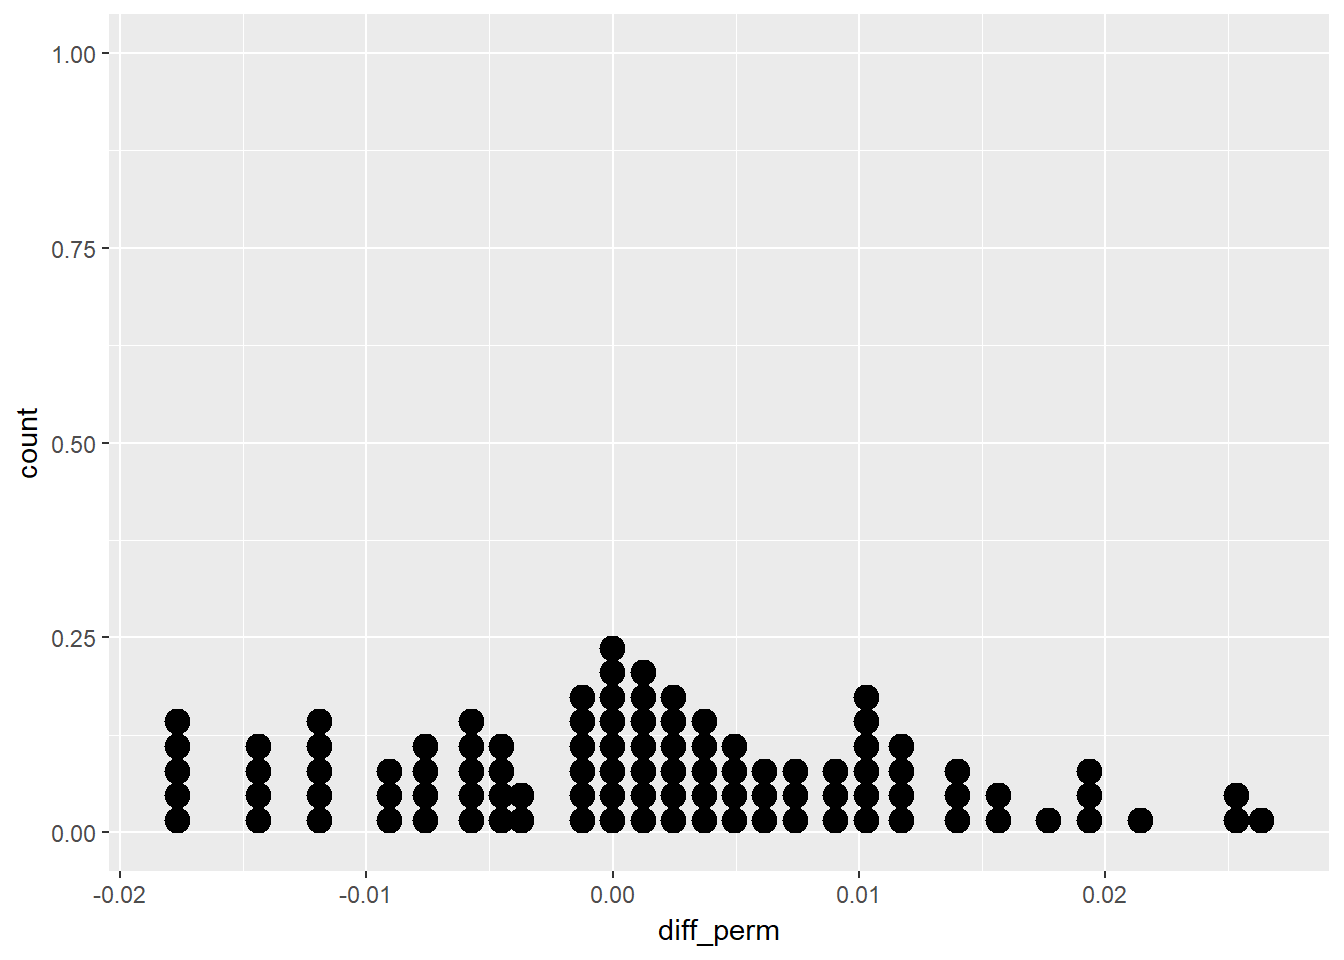
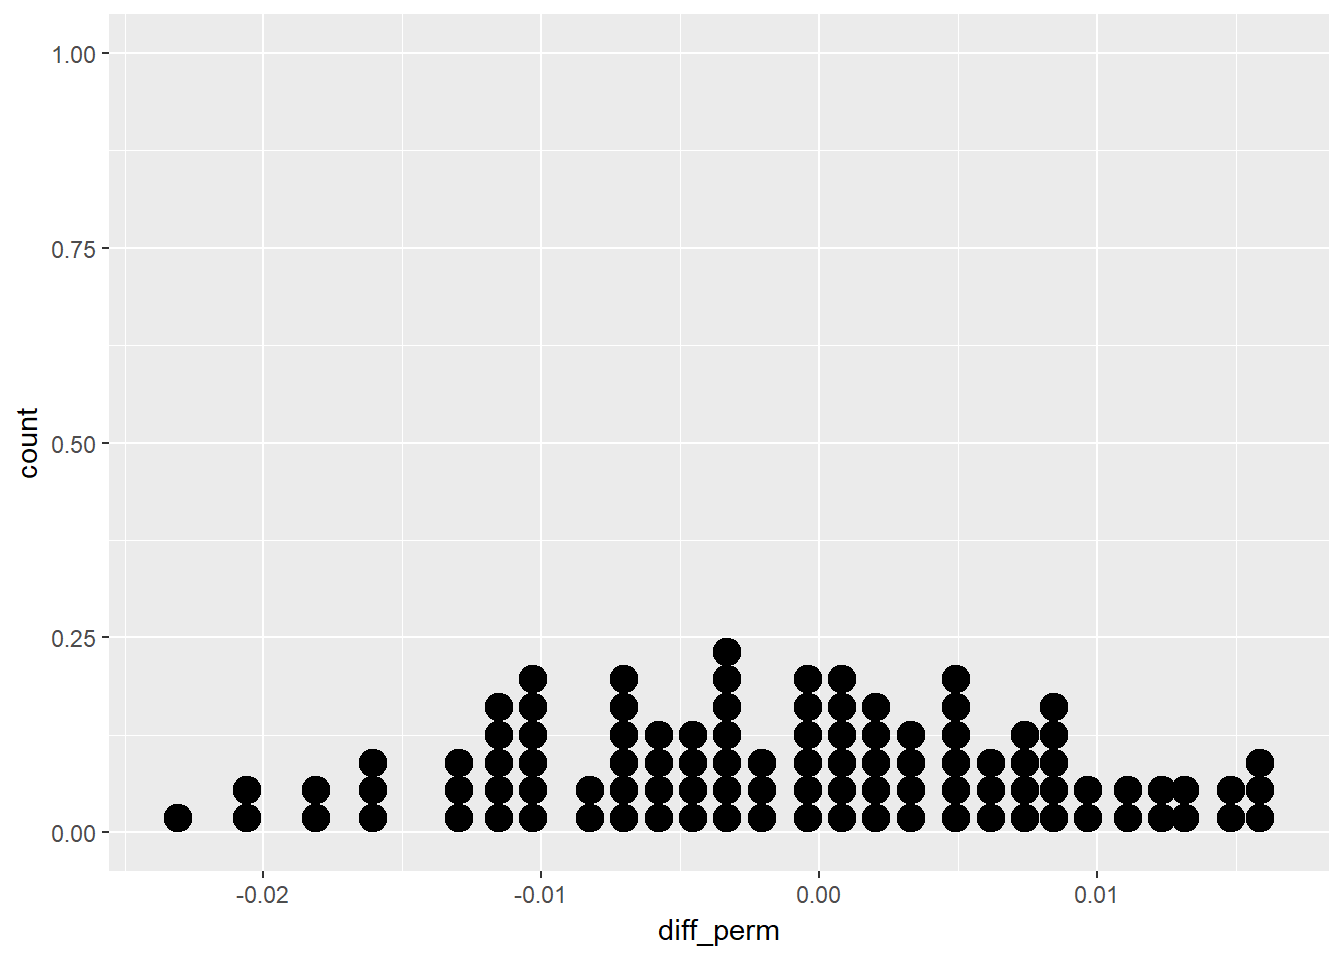
Started readr section

diff --git a/docs/importing-data-part-1.html b/docs/importing-data-part-1.html
@@ -108,6 +108,7 @@ code > span.in { color: #60a0b0; font-weight: bold; font-style: italic; } /* Inf
 <li class="chapter" data-level="1.1" data-path="importing-data-part-1.html"><a href="importing-data-part-1.html#introduction"><i class="fa fa-check"></i><b>1.1</b> Introduction</a></li>
 <li class="chapter" data-level="1.2" data-path="importing-data-part-1.html"><a href="importing-data-part-1.html#reading-csv-files"><i class="fa fa-check"></i><b>1.2</b> Reading CSV files</a></li>
 <li class="chapter" data-level="1.3" data-path="importing-data-part-1.html"><a href="importing-data-part-1.html#reading-tab-deliminated-files-or-other-table-formats"><i class="fa fa-check"></i><b>1.3</b> Reading tab deliminated files or other table formats</a></li>
+<li class="chapter" data-level="1.4" data-path="importing-data-part-1.html"><a href="importing-data-part-1.html#readr-and-data.table"><i class="fa fa-check"></i><b>1.4</b> Readr and data.table</a></li>
 </ul></li>
 <li class="chapter" data-level="2" data-path="foundations-of-inference.html"><a href="foundations-of-inference.html"><i class="fa fa-check"></i><b>2</b> Foundations of Inference</a><ul>
 <li class="chapter" data-level="2.1" data-path="foundations-of-inference.html"><a href="foundations-of-inference.html#introduction-to-inference"><i class="fa fa-check"></i><b>2.1</b> Introduction to Inference</a></li>
@@ -184,7 +185,22 @@ file &lt;-<span class="st"> </span><span class="kw">read.table</span>(path,
                       <span class="dt">sep =</span> <span class="st">&quot;</span><span class="ch">\t</span><span class="st">&quot;</span>,                                        <span class="co"># specify seperator - tab in this instance</span>
                       <span class="dt">col.names =</span> <span class="kw">c</span>(<span class="st">&quot;VarName1&quot;</span>, <span class="st">&quot;VarName2&quot;</span>, <span class="st">&quot;VarName3&quot;</span>), <span class="co"># specifiy variable names</span>
                       <span class="dt">colClasses =</span> <span class="kw">c</span>(<span class="st">&quot;factor&quot;</span>, <span class="st">&quot;NULL&quot;</span>, <span class="st">&quot;numeric&quot;</span>))       <span class="co"># specify the column/variable classes</span></code></pre></div>
-<p>Both read.csv and read.delim are wrapper functions of read.table, both use read.table but have different default options depending on the file type. There are two further wrapper functions - read.csv2 and read.delim2 - which deal with regional differences in formatting, notably that some areas use full stops as decimal places, whereas other areas use commas for decimal places.</p>
+<p>Both read.csv and read.delim are wrapper functions of read.table(), both use read.table but have different default options depending on the file type. There are two further wrapper functions - read.csv2 and read.delim2 - which deal with regional differences in formatting, notably that some areas use full stops as decimal places, whereas other areas use commas for decimal places.</p>
+</div>
+<div id="readr-and-data.table" class="section level2">
+<h2><span class="header-section-number">1.4</span> Readr and data.table</h2>
+<p>These two packages are other ways of reading in files. Readr uses the tibble, so will be compatable with other tidyverse packages such as dplyr. It is faster than utils, the r default and also prints out the column classes, depending on what other packages are loaded. It is not neccessary to specifiy stringsAsFactors = FALSE. Like the utils package, these are wrapper functions, with the base function being read_delim().</p>
+<div class="sourceCode"><pre class="sourceCode r"><code class="sourceCode r"><span class="kw">library</span>(readr)
+<span class="kw">read_csv</span>(<span class="st">&quot;file.csv&quot;</span>)    <span class="co">#read comma seperated</span>
+<span class="kw">read_tsv</span>(<span class="st">&quot;file2.txt&quot;</span>)   <span class="co">#read tab seperated files</span>
+
+<span class="co">#If there are no row heards, you can create a vector then read it in using the col_names argument</span>
+
+<span class="co">#specify the vector for column names</span>
+properties &lt;-<span class="st"> </span><span class="kw">c</span>(<span class="st">&quot;area&quot;</span>, <span class="st">&quot;temp&quot;</span>, <span class="st">&quot;size&quot;</span>, <span class="st">&quot;storage&quot;</span>, <span class="st">&quot;method&quot;</span>,
+                <span class="st">&quot;texture&quot;</span>, <span class="st">&quot;flavor&quot;</span>, <span class="st">&quot;moistness&quot;</span>)
+<span class="co">#read in the vector</span>
+potatoes &lt;-<span class="st"> </span><span class="kw">read_tsv</span>(<span class="st">&quot;potatoes.txt&quot;</span>, <span class="dt">col_names =</span> properties)</code></pre></div>
 
 </div>
 </div>

diff --git a/docs/foundations-of-inference.html b/docs/foundations-of-inference.html
@@ -108,6 +108,7 @@ code > span.in { color: #60a0b0; font-weight: bold; font-style: italic; } /* Inf
 <li class="chapter" data-level="1.1" data-path="importing-data-part-1.html"><a href="importing-data-part-1.html#introduction"><i class="fa fa-check"></i><b>1.1</b> Introduction</a></li>
 <li class="chapter" data-level="1.2" data-path="importing-data-part-1.html"><a href="importing-data-part-1.html#reading-csv-files"><i class="fa fa-check"></i><b>1.2</b> Reading CSV files</a></li>
 <li class="chapter" data-level="1.3" data-path="importing-data-part-1.html"><a href="importing-data-part-1.html#reading-tab-deliminated-files-or-other-table-formats"><i class="fa fa-check"></i><b>1.3</b> Reading tab deliminated files or other table formats</a></li>
+<li class="chapter" data-level="1.4" data-path="importing-data-part-1.html"><a href="importing-data-part-1.html#readr-and-data.table"><i class="fa fa-check"></i><b>1.4</b> Readr and data.table</a></li>
 </ul></li>
 <li class="chapter" data-level="2" data-path="foundations-of-inference.html"><a href="foundations-of-inference.html"><i class="fa fa-check"></i><b>2</b> Foundations of Inference</a><ul>
 <li class="chapter" data-level="2.1" data-path="foundations-of-inference.html"><a href="foundations-of-inference.html#introduction-to-inference"><i class="fa fa-check"></i><b>2.1</b> Introduction to Inference</a></li>
@@ -229,9 +230,9 @@ homes %&gt;%
 <span class="st">  </span><span class="kw">summarize</span>(<span class="dt">diff_perm =</span> <span class="kw">diff</span>(prop_own),
             <span class="dt">diff_orig =</span> <span class="kw">diff</span>(prop_own_perm))</code></pre></div>
 <pre><code>## # A tibble: 1 × 2
-##      diff_perm  diff_orig
-##          &lt;dbl&gt;      &lt;dbl&gt;
-## 1 -0.007828723 0.00205644</code></pre>
+##      diff_perm   diff_orig
+##          &lt;dbl&gt;       &lt;dbl&gt;
+## 1 -0.007828723 -0.01235942</code></pre>
 <p>It is easier to see what is going on by breaking the results down iteratively. Our selected and filtered homes dataset looks like.</p>
 <div class="sourceCode"><pre class="sourceCode r"><code class="sourceCode r"><span class="kw">head</span>(homes)</code></pre></div>
 <pre><code>## # A tibble: 6 × 2
@@ -255,10 +256,10 @@ homes %&gt;%
 ##   &lt;fctr&gt;  &lt;fctr&gt;       &lt;fctr&gt;
 ## 1   male    Rent          Own
 ## 2   male    Rent          Own
-## 3 female     Own          Own
+## 3 female     Own         Rent
 ## 4   male     Own          Own
 ## 5   male     Own          Own
-## 6   male     Own          Own</code></pre>
+## 6   male     Own         Rent</code></pre>
 <div class="sourceCode"><pre class="sourceCode r"><code class="sourceCode r"><span class="kw">summary</span>(homes2)</code></pre></div>
 <pre><code>##     Gender      HomeOwn     HomeOwn_perm
 ##  female:4890   Own  :6425   Own  :6425  
@@ -272,17 +273,17 @@ homes3</code></pre></div>
 <pre><code>## # A tibble: 2 × 3
 ##   Gender prop_own_perm  prop_own
 ##   &lt;fctr&gt;         &lt;dbl&gt;     &lt;dbl&gt;
-## 1 female     0.6723926 0.6654397
-## 2   male     0.6505599 0.6576109</code></pre>
+## 1 female     0.6672802 0.6654397
+## 2   male     0.6557445 0.6576109</code></pre>
 <p>FFinally we calculate the differences in ownership - note that the difference for the permuted value here may be different from the full code above, as it a new random permutation and we have used the set.seed() function which would create an identical permutation.</p>
 <div class="sourceCode"><pre class="sourceCode r"><code class="sourceCode r">homes4 &lt;-<span class="st"> </span>homes3 %&gt;%<span class="st"> </span>
 <span class="st">  </span><span class="kw">summarize</span>(<span class="dt">diff_perm =</span> <span class="kw">diff</span>(prop_own),
   <span class="dt">diff_orig =</span> <span class="kw">diff</span>(prop_own_perm))
 homes4</code></pre></div>
 <pre><code>## # A tibble: 1 × 2
-##      diff_perm  diff_orig
-##          &lt;dbl&gt;      &lt;dbl&gt;
-## 1 -0.007828723 -0.0218327</code></pre>
+##      diff_perm   diff_orig
+##          &lt;dbl&gt;       &lt;dbl&gt;
+## 1 -0.007828723 -0.01153566</code></pre>
 </div>
 <div id="density-plots" class="section level2">
 <h2><span class="header-section-number">2.3</span> Density Plots</h2>

diff --git a/docs/index.html b/docs/index.html
@@ -108,6 +108,7 @@ code > span.in { color: #60a0b0; font-weight: bold; font-style: italic; } /* Inf
 <li class="chapter" data-level="1.1" data-path="importing-data-part-1.html"><a href="importing-data-part-1.html#introduction"><i class="fa fa-check"></i><b>1.1</b> Introduction</a></li>
 <li class="chapter" data-level="1.2" data-path="importing-data-part-1.html"><a href="importing-data-part-1.html#reading-csv-files"><i class="fa fa-check"></i><b>1.2</b> Reading CSV files</a></li>
 <li class="chapter" data-level="1.3" data-path="importing-data-part-1.html"><a href="importing-data-part-1.html#reading-tab-deliminated-files-or-other-table-formats"><i class="fa fa-check"></i><b>1.3</b> Reading tab deliminated files or other table formats</a></li>
+<li class="chapter" data-level="1.4" data-path="importing-data-part-1.html"><a href="importing-data-part-1.html#readr-and-data.table"><i class="fa fa-check"></i><b>1.4</b> Readr and data.table</a></li>
 </ul></li>
 <li class="chapter" data-level="2" data-path="foundations-of-inference.html"><a href="foundations-of-inference.html"><i class="fa fa-check"></i><b>2</b> Foundations of Inference</a><ul>
 <li class="chapter" data-level="2.1" data-path="foundations-of-inference.html"><a href="foundations-of-inference.html#introduction-to-inference"><i class="fa fa-check"></i><b>2.1</b> Introduction to Inference</a></li>
@@ -142,7 +143,7 @@ code > span.in { color: #60a0b0; font-weight: bold; font-style: italic; } /* Inf
 <div id="header">
 <h1 class="title">Study notes</h1>
 <h4 class="author"><em>James Solomon-Rounce</em></h4>
-<h4 class="date"><em>Last updated:2017-06-13</em></h4>
+<h4 class="date"><em>Last updated:2017-06-16</em></h4>
 </div>
 <div id="preface" class="section level1 unnumbered">
 <h1>Preface</h1>

diff --git a/docs/references.html b/docs/references.html
@@ -108,6 +108,7 @@ code > span.in { color: #60a0b0; font-weight: bold; font-style: italic; } /* Inf
 <li class="chapter" data-level="1.1" data-path="importing-data-part-1.html"><a href="importing-data-part-1.html#introduction"><i class="fa fa-check"></i><b>1.1</b> Introduction</a></li>
 <li class="chapter" data-level="1.2" data-path="importing-data-part-1.html"><a href="importing-data-part-1.html#reading-csv-files"><i class="fa fa-check"></i><b>1.2</b> Reading CSV files</a></li>
 <li class="chapter" data-level="1.3" data-path="importing-data-part-1.html"><a href="importing-data-part-1.html#reading-tab-deliminated-files-or-other-table-formats"><i class="fa fa-check"></i><b>1.3</b> Reading tab deliminated files or other table formats</a></li>
+<li class="chapter" data-level="1.4" data-path="importing-data-part-1.html"><a href="importing-data-part-1.html#readr-and-data.table"><i class="fa fa-check"></i><b>1.4</b> Readr and data.table</a></li>
 </ul></li>
 <li class="chapter" data-level="2" data-path="foundations-of-inference.html"><a href="foundations-of-inference.html"><i class="fa fa-check"></i><b>2</b> Foundations of Inference</a><ul>
 <li class="chapter" data-level="2.1" data-path="foundations-of-inference.html"><a href="foundations-of-inference.html#introduction-to-inference"><i class="fa fa-check"></i><b>2.1</b> Introduction to Inference</a></li>

diff --git a/docs/Data-import-1.md b/docs/Data-import-1.md
@@ -75,5 +75,24 @@ file <- read.table(path,
                       colClasses = c("factor", "NULL", "numeric"))       # specify the column/variable classes
 ```
 
-Both read.csv and read.delim are wrapper functions of read.table, both use read.table but have different default options depending on the file type.  There are two further wrapper functions - read.csv2 and read.delim2 - which deal with regional differences in formatting, notably that some areas use full stops as decimal places, whereas other areas use commas for decimal places.
+Both read.csv and read.delim are wrapper functions of read.table(), both use read.table but have different default options depending on the file type.  There are two further wrapper functions - read.csv2 and read.delim2 - which deal with regional differences in formatting, notably that some areas use full stops as decimal places, whereas other areas use commas for decimal places.
+
+## Readr and data.table
+
+These two packages are other ways of reading in files.  Readr uses the tibble, so will be compatable with other tidyverse packages such as dplyr.  It is faster than utils, the r default and also prints out the column classes, depending on what other packages are loaded. It is not neccessary to specifiy stringsAsFactors = FALSE.  Like the utils package, these are wrapper functions, with the base function being read_delim().
+
+
+```r
+library(readr)
+read_csv("file.csv")    #read comma seperated
+read_tsv("file2.txt")   #read tab seperated files
+
+#If there are no row heards, you can create a vector then read it in using the col_names argument
+
+#specify the vector for column names
+properties <- c("area", "temp", "size", "storage", "method",
+                "texture", "flavor", "moistness")
+#read in the vector
+potatoes <- read_tsv("potatoes.txt", col_names = properties)
+```
 

diff --git a/docs/Foundations-of-Inference.md b/docs/Foundations-of-Inference.md
@@ -95,9 +95,9 @@ homes %>%
 
 ```
 ## # A tibble: 1 × 2
-##      diff_perm  diff_orig
-##          <dbl>      <dbl>
-## 1 -0.007828723 0.00205644
+##      diff_perm   diff_orig
+##          <dbl>       <dbl>
+## 1 -0.007828723 -0.01235942
 ```
 
 It is easier to see what is going on by breaking the results down iteratively.  Our selected and filtered homes dataset looks like. 
@@ -137,10 +137,10 @@ tail(homes2)
 ##   <fctr>  <fctr>       <fctr>
 ## 1   male    Rent          Own
 ## 2   male    Rent          Own
-## 3 female     Own          Own
+## 3 female     Own         Rent
 ## 4   male     Own          Own
 ## 5   male     Own          Own
-## 6   male     Own          Own
+## 6   male     Own         Rent
 ```
 
 ```r
@@ -168,8 +168,8 @@ homes3
 ## # A tibble: 2 × 3
 ##   Gender prop_own_perm  prop_own
 ##   <fctr>         <dbl>     <dbl>
-## 1 female     0.6723926 0.6654397
-## 2   male     0.6505599 0.6576109
+## 1 female     0.6672802 0.6654397
+## 2   male     0.6557445 0.6576109
 ```
 
 FFinally we calculate the differences in ownership - note that the difference for the permuted value here may be different from the full code above, as it a new random permutation and we have used the set.seed() function which would create an identical permutation.
@@ -184,9 +184,9 @@ homes4
 
 ```
 ## # A tibble: 1 × 2
-##      diff_perm  diff_orig
-##          <dbl>      <dbl>
-## 1 -0.007828723 -0.0218327
+##      diff_perm   diff_orig
+##          <dbl>       <dbl>
+## 1 -0.007828723 -0.01153566
 ```
 
 ##Density Plots

diff --git a/docs/index.md b/docs/index.md
@@ -1,7 +1,7 @@
 --- 
 title: "Study notes"
 author: "James Solomon-Rounce"
-date: 'Last updated:2017-06-13'
+date: 'Last updated:2017-06-16'
 bibliography: book.bib
 description: Study notes taken from courses and self learning.
 documentclass: book
